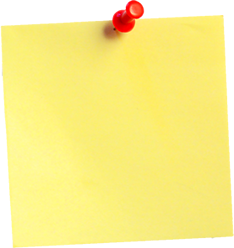
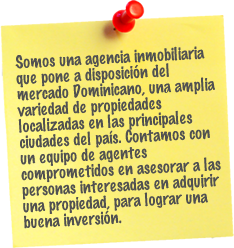
Arreglo de la etiqueta amarilla con su texto en el formulario de signup

Changed region(s): [[0.0598, 0.1694, 0.9573, 0.9315]]

diff --git a/css/propiedadsantiaguera.css b/css/propiedadsantiaguera.css
@@ -143,6 +143,7 @@ p, ul
 }
 
 /************ Login block end *******************/
+
 /*********** Password Reset Form  **********/
 #login #password-reset-form
 {
@@ -210,7 +211,7 @@ p, ul
 
 #idiomas-container
 {
-        float: right;
+    float: right;
     height: 17px;
     padding: 5px;
     
@@ -1655,9 +1656,18 @@ margin-bottom: 10px;
 }
 #signup-descripcion-ejemplo
 {
-    background-image: url('/images/common/exampleTextBackground.png');
-    width : 234px;
-    height: 248px;
+    background: url('/images/common/exampleTextBackground.png')top center no-repeat;
+      height: 260px;
+    margin: 20px;
+    padding: 20px;
+    width: 234px;
+}
+#signup-descripcion-ejemplo p
+{
+    width:215px;
+    font-size: 9pt;
+    padding: 28px 13px 0 16px;
+    width: 200px;
 }
 #signup-info-fotos
 {

diff --git a/application/views/forms/signup_form.php b/application/views/forms/signup_form.php
@@ -79,9 +79,9 @@
             <p id="signup-upload-photo-status"></p>
         </div>
 
-        <p id="signup-descripcion-ejemplo">
-                    Somos una agencia inmobiliaria que pone a disposición del mercado Dominicano, una amplia variedad de propiedades localizadas en las principales ciudades del país. Contamos con un equipo de agentes comprometidos en asesorar a las personas interesadas en adquirir una propiedad, para lograr una buena inversión.
-        </p>
+        <div id="signup-descripcion-ejemplo">
+             
+        </div>
 
             
     </div>
